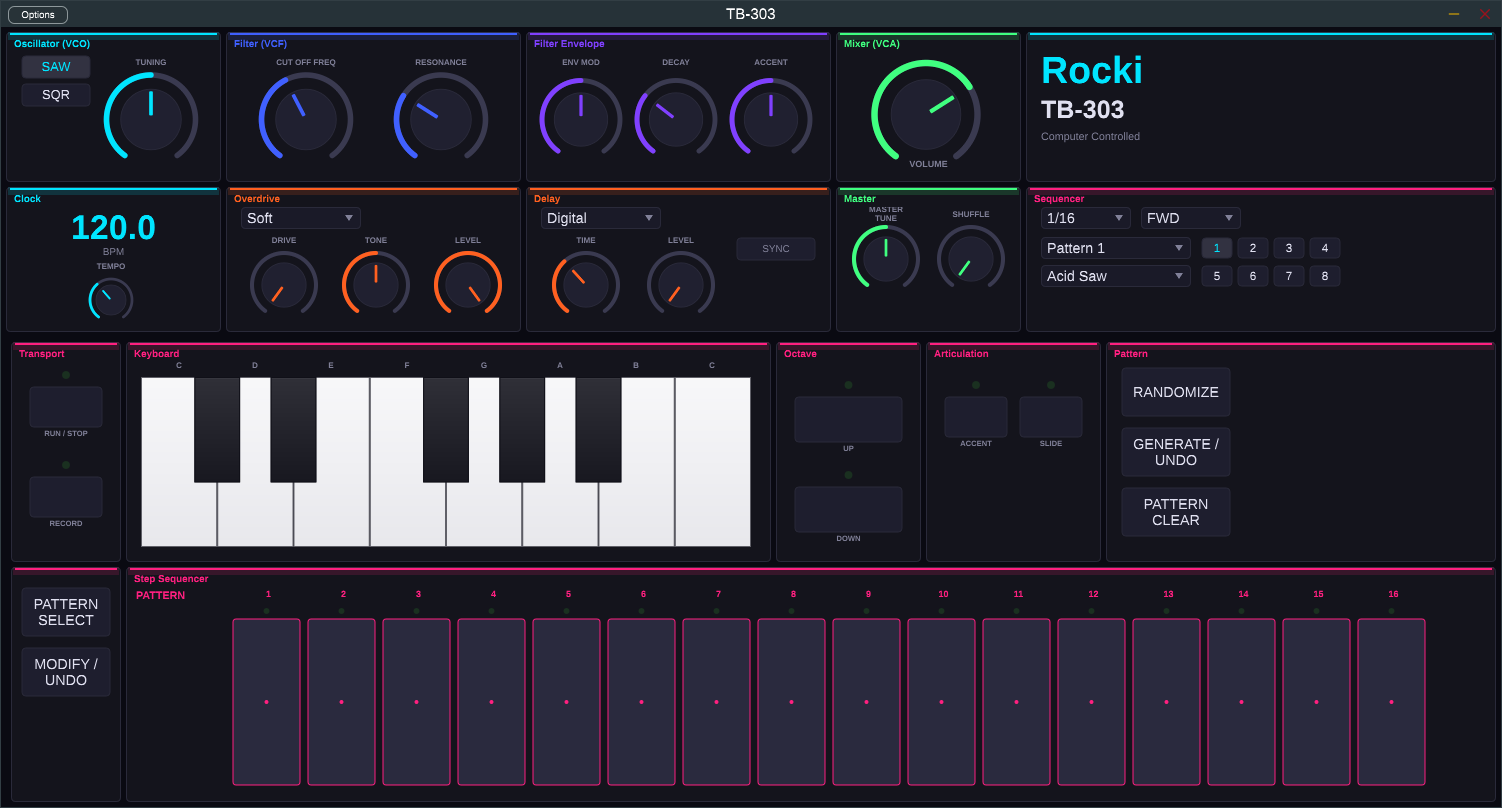
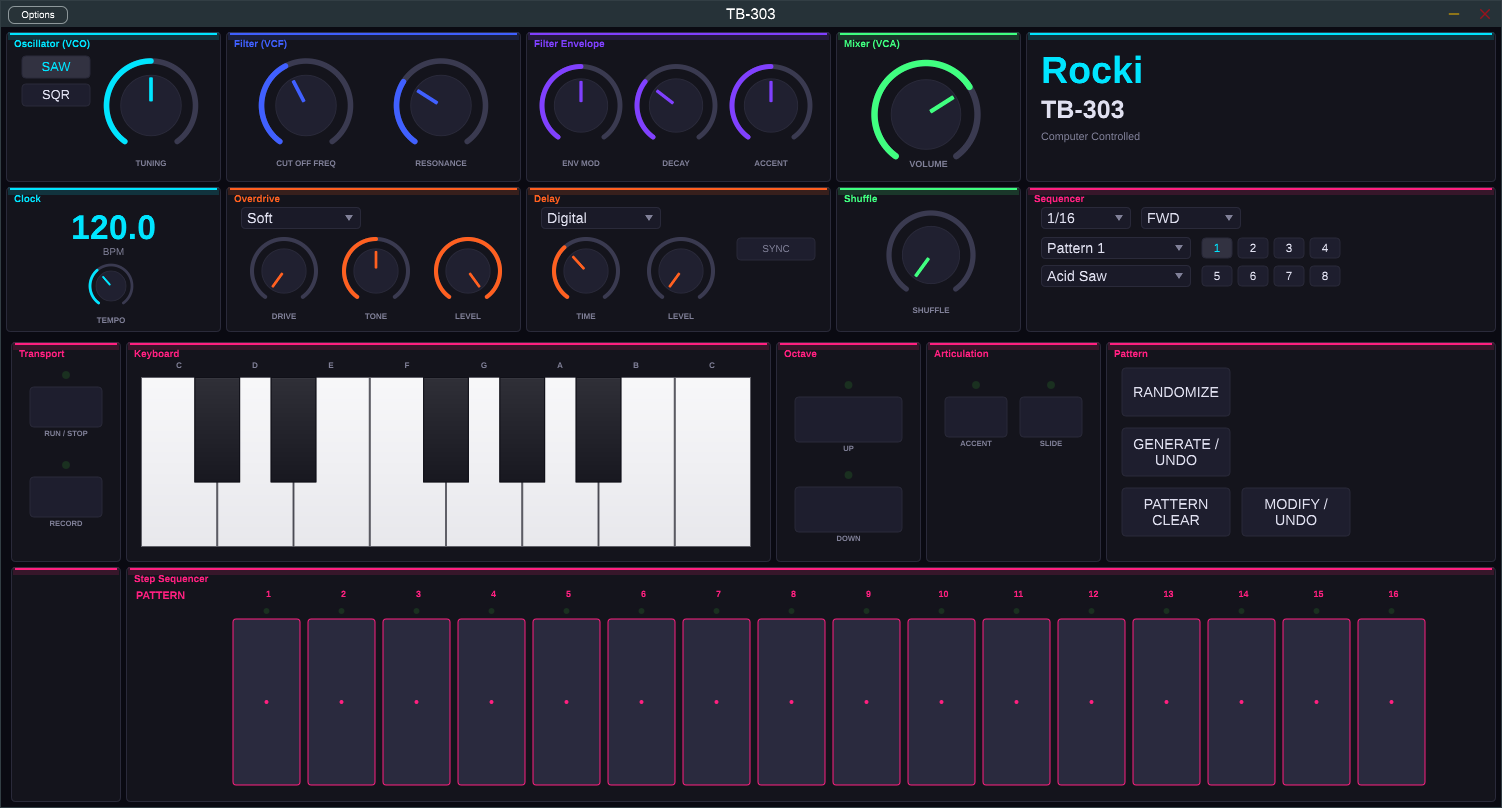
Remove Master Tune, labels below knobs, move Modify/Undo to Pattern section
- Removed Master Tune knob entirely, renamed section to "Shuffle"
- Changed default labelBelow_ to true so all knob labels appear below
- Removed Pattern Select button
- Moved Modify/Undo button into the Pattern section (right side)
- Updated screenshot

https://claude.ai/code/session_01FagTBpks51Z9jDDqN3xDNu

diff --git a/Source/GUI/TopPanel.cpp b/Source/GUI/TopPanel.cpp
@@ -16,7 +16,6 @@ TopPanel::TopPanel(TB303AudioProcessor& processor)
       driveLevelKnob_("LEVEL", "driveLevel", processor.getAPVTS()),
       delayTimeKnob_("TIME", "delayTime", processor.getAPVTS()),
       delayLevelKnob_("LEVEL", "delayLevel", processor.getAPVTS()),
-      masterTuneKnob_("MASTER\nTUNE", "masterTune", processor.getAPVTS()),
       shuffleKnob_("SHUFFLE", "shuffle", processor.getAPVTS())
 {
     // Set arc colors per section
@@ -32,7 +31,6 @@ TopPanel::TopPanel(TB303AudioProcessor& processor)
     driveLevelKnob_.setArcColor(TB303Colors::orange());
     delayTimeKnob_.setArcColor(TB303Colors::orange());
     delayLevelKnob_.setArcColor(TB303Colors::orange());
-    masterTuneKnob_.setArcColor(TB303Colors::green());
     shuffleKnob_.setArcColor(TB303Colors::green());
 
     // VCO waveform buttons
@@ -99,8 +97,7 @@ TopPanel::TopPanel(TB303AudioProcessor& processor)
     tempoSyncAttachment_ = std::make_unique<juce::AudioProcessorValueTreeState::ButtonAttachment>(
         apvts_, "tempoSync", tempoSyncButton_);
 
-    // Master
-    addAndMakeVisible(masterTuneKnob_);
+    // Shuffle
     addAndMakeVisible(shuffleKnob_);
 
     // Sequencer section
@@ -193,7 +190,7 @@ void TopPanel::paint(juce::Graphics& g)
     TB303LookAndFeel::paintSectionPanel(g, { 5, 160, 215, 145 }, "Clock", TB303Colors::cyan());
     TB303LookAndFeel::paintSectionPanel(g, { 225, 160, 295, 145 }, "Overdrive", TB303Colors::orange());
     TB303LookAndFeel::paintSectionPanel(g, { 525, 160, 305, 145 }, "Delay", TB303Colors::orange());
-    TB303LookAndFeel::paintSectionPanel(g, { 835, 160, 185, 145 }, "Master", TB303Colors::green());
+    TB303LookAndFeel::paintSectionPanel(g, { 835, 160, 185, 145 }, "Shuffle", TB303Colors::green());
     TB303LookAndFeel::paintSectionPanel(g, { 1025, 160, 470, 145 }, "Sequencer", TB303Colors::pink());
 
     // BPM display in Clock section
@@ -242,9 +239,8 @@ void TopPanel::resized()
     delayLevelKnob_.setBounds(635, 206, 90, 90);
     tempoSyncButton_.setBounds(735, 210, 80, 24);
 
-    // Master [835, 160, 185, 145]
-    masterTuneKnob_.setBounds(845, 180, 80, 90);
-    shuffleKnob_.setBounds(930, 180, 80, 90);
+    // Shuffle [835, 160, 185, 145] - centered
+    shuffleKnob_.setBounds(870, 180, 120, 110);
 
     // Sequencer [1025, 160, 470, 145]
     scaleBox_.setBounds(1040, 180, 90, 22);

diff --git a/Source/GUI/BottomPanel.cpp b/Source/GUI/BottomPanel.cpp
@@ -92,7 +92,6 @@ BottomPanel::BottomPanel(TB303AudioProcessor& processor)
     addAndMakeVisible(patternClearButton_);
 
     // Row 4 buttons
-    addAndMakeVisible(patternSelectButton_);
     modifyUndoButton_.onClick = [this]() {
         if (hasUndo_) {
             processor_.getSequencer().getCurrentPatternRef() = undoPattern_;
@@ -189,8 +188,8 @@ void BottomPanel::resized()
     patternClearButton_.setBounds(1120, 150, 110, 50);
 
     // Row 4 - left column [10, 230, 110, 235]
-    patternSelectButton_.setBounds(20, 250, 90, 50);
-    modifyUndoButton_.setBounds(20, 310, 90, 50);
+    // Modify/Undo in Pattern section (right side)
+    modifyUndoButton_.setBounds(1240, 150, 110, 50);
 
     // Step buttons [125, 230, 1370, 235] - 16 buttons
     int stepStartX = 230;

diff --git a/Source/GUI/TopPanel.h b/Source/GUI/TopPanel.h
@@ -57,8 +57,7 @@ private:
     juce::ToggleButton tempoSyncButton_;
     std::unique_ptr<juce::AudioProcessorValueTreeState::ButtonAttachment> tempoSyncAttachment_;
 
-    // Master
-    KnobComponent masterTuneKnob_;
+    // Shuffle
     KnobComponent shuffleKnob_;
 
     // Sequencer section

diff --git a/Source/GUI/BottomPanel.h b/Source/GUI/BottomPanel.h
@@ -40,7 +40,6 @@ private:
     juce::TextButton patternClearButton_{ "PATTERN\nCLEAR" };
 
     // Row 4
-    juce::TextButton patternSelectButton_{ "PATTERN\nSELECT" };
     juce::TextButton modifyUndoButton_{ "MODIFY /\nUNDO" };
 
     // Step buttons - ALL 16

diff --git a/Source/GUI/KnobComponent.h b/Source/GUI/KnobComponent.h
@@ -18,5 +18,5 @@ private:
     juce::Slider slider_;
     juce::Label label_;
     std::unique_ptr<juce::AudioProcessorValueTreeState::SliderAttachment> attachment_;
-    bool labelBelow_ = false;
+    bool labelBelow_ = true;
 };
